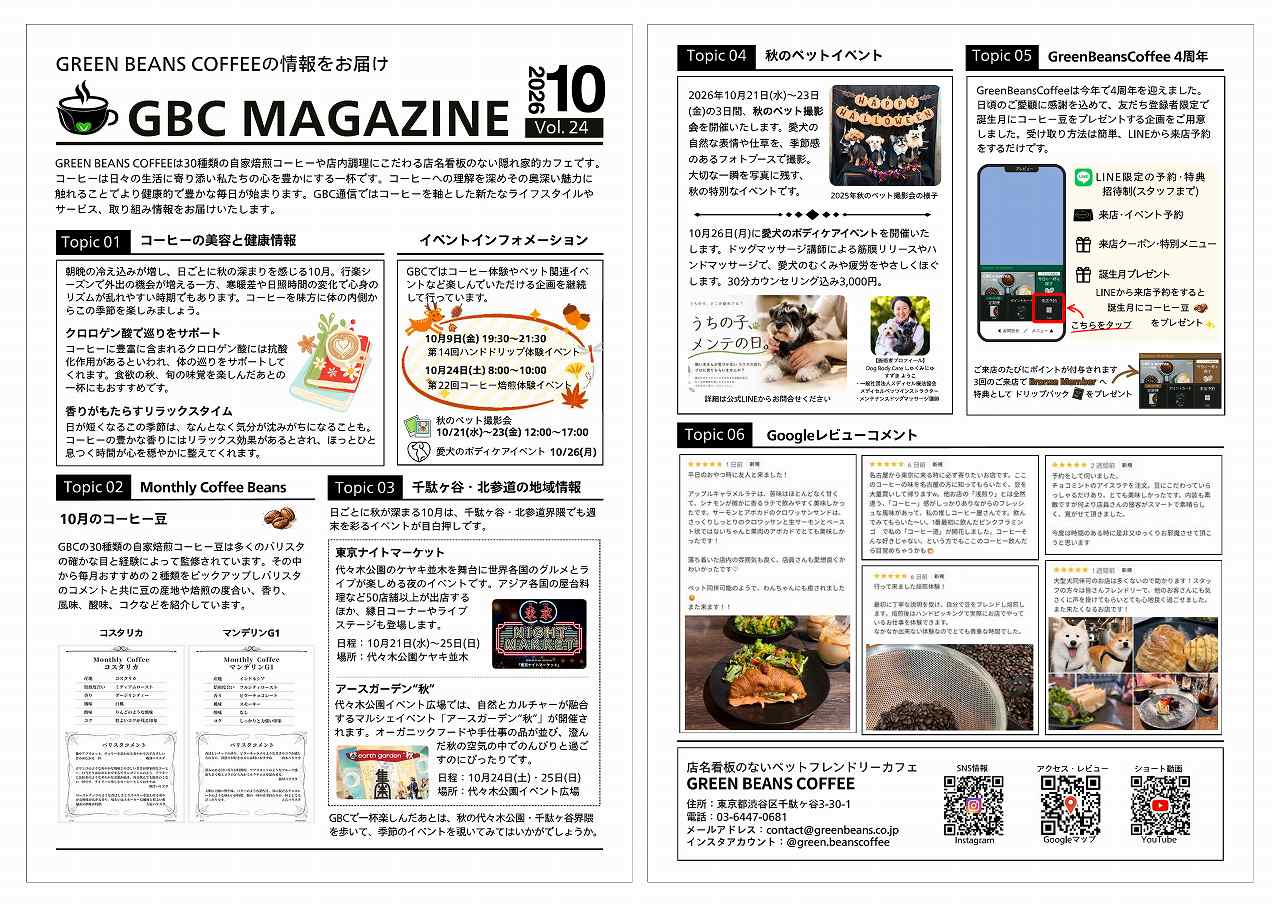
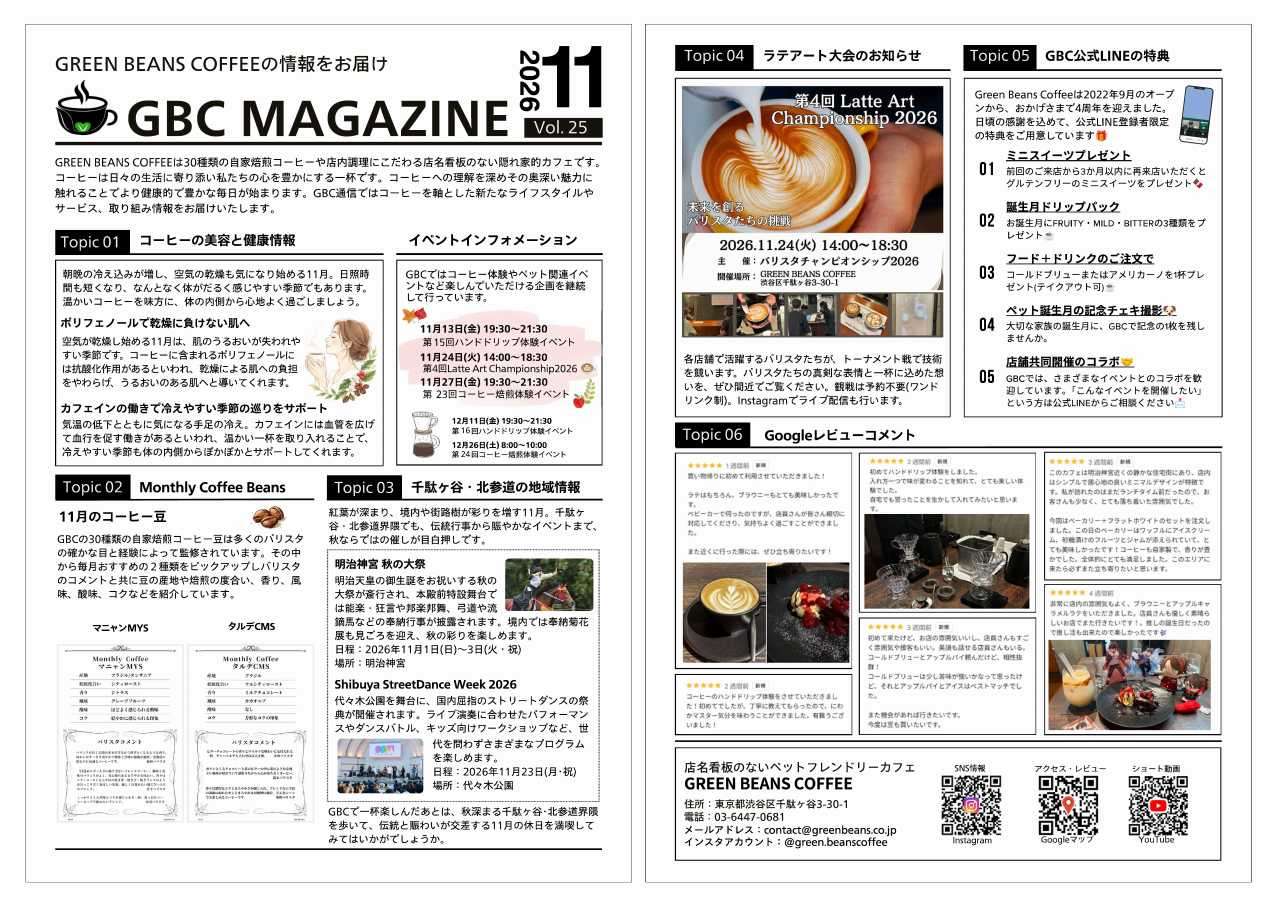
feat: update December GBC Magazine and standardize magazine rotation workflow

diff --git a/public/index.html b/public/index.html
@@ -1128,8 +1128,8 @@
       <!-- Latest Issue -->
       <div class="w-full max-w-2xl mx-auto mb-16 px-4 sm:px-0" data-aos="zoom-in">
         <h3 class="text-2xl font-bold mb-4 text-center text-primary">最新号</h3>
-        <div class="relative group cursor-pointer" onclick="openModal('/assets/images/magazine/latest.jpg')">
-          <img src="/assets/images/magazine/latest.jpg" alt="北参道・千駄ヶ谷のGreen Beans Coffeeが制作する月刊誌「GBCマガジン」最新号。店内掲示のフリーペーパーとして無料配布し、地域情報やコーヒー文化を発信しています。" class="w-full rounded-lg shadow-lg group-hover:shadow-xl transition-all duration-300 group-hover:scale-105" loading="lazy" decoding="async">
+        <div class="relative group cursor-pointer" onclick="openModal(this)">
+          <img src="/assets/images/magazine/latest.jpg?v=f7b3a398" alt="北参道・千駄ヶ谷のGreen Beans Coffeeが制作する月刊誌「GBCマガジン」2026年12月号（Vol.26）。店内掲示のフリーペーパーとして無料配布し、地域情報やコーヒー文化を発信しています。" class="w-full rounded-lg shadow-lg group-hover:shadow-xl transition-all duration-300 group-hover:scale-105" loading="lazy" decoding="async">
           <!-- Hover Overlay with Zoom Icon -->
           <div class="absolute inset-0 bg-black/0 group-hover:bg-black/20 transition-all duration-300 rounded-lg flex items-center justify-center">
             <svg xmlns="http://www.w3.org/2000/svg" width="64" height="64" viewBox="0 0 24 24" fill="none" stroke="white" stroke-width="2" stroke-linecap="round" stroke-linejoin="round" class="opacity-0 group-hover:opacity-100 transition-opacity duration-300">
@@ -1147,8 +1147,8 @@
       <div class="max-w-4xl mx-auto">
         <h3 class="text-xl font-bold mb-6 text-center text-primary">バックナンバー</h3>
         <div class="grid grid-cols-2 sm:grid-cols-2 md:grid-cols-3 gap-4">
-          <div class="relative group cursor-pointer" onclick="openModal('/assets/images/magazine/back-01.jpg')">
-            <img src="/assets/images/magazine/back-01.jpg" alt="北参道・千駄ヶ谷のGreen Beans Coffeeが発行する月刊誌「GBCマガジン」2026年8月号。紫外線対策や血液サラサラ効果などコーヒーの美容・健康情報、神宮外苑花火大会・原宿表参道元氣祭スーパーよさこいの地域情報、GBCコーヒー新作3種の紹介を掲載しています。" class="w-full rounded shadow group-hover:shadow-lg transition-all duration-300 group-hover:scale-105" loading="lazy" decoding="async">
+          <div class="relative group cursor-pointer" onclick="openModal(this)">
+            <img src="/assets/images/magazine/back-01.jpg?v=5debcccb" alt="北参道・千駄ヶ谷のGreen Beans Coffeeが発行する月刊誌「GBCマガジン」2026年11月号（Vol.25）。明治神宮秋の大祭やShibuya StreetDance Week、第4回Latte Art Championship 2026の告知、GBC公式LINEの特典情報を掲載しています。" class="w-full rounded shadow group-hover:shadow-lg transition-all duration-300 group-hover:scale-105" loading="lazy" decoding="async">
             <div class="absolute inset-0 bg-black/0 group-hover:bg-black/20 transition-all duration-300 rounded flex items-center justify-center">
               <svg xmlns="http://www.w3.org/2000/svg" width="48" height="48" viewBox="0 0 24 24" fill="none" stroke="white" stroke-width="2" stroke-linecap="round" stroke-linejoin="round" class="opacity-0 group-hover:opacity-100 transition-opacity duration-300">
                 <circle cx="11" cy="11" r="8"></circle>
@@ -1158,8 +1158,8 @@
               </svg>
             </div>
           </div>
-          <div class="relative group cursor-pointer" onclick="openModal('/assets/images/magazine/back-02.jpg')">
-            <img src="/assets/images/magazine/back-02.jpg" alt="北参道・千駄ヶ谷のGreen Beans Coffeeが発行する月刊誌「GBCマガジン」2026年7月号。夏の美容・健康情報やラテアート大会のご報告、GBC Articlesの紹介などを掲載しています。" class="w-full rounded shadow group-hover:shadow-lg transition-all duration-300 group-hover:scale-105" loading="lazy" decoding="async">
+          <div class="relative group cursor-pointer" onclick="openModal(this)">
+            <img src="/assets/images/magazine/back-02.jpg?v=f4c33983" alt="北参道・千駄ヶ谷のGreen Beans Coffeeが発行する月刊誌「GBCマガジン」2026年10月号（Vol.24）。秋のペット撮影会やボディケアイベントのご報告、Green Beans Coffee4周年記念企画を掲載しています。" class="w-full rounded shadow group-hover:shadow-lg transition-all duration-300 group-hover:scale-105" loading="lazy" decoding="async">
             <div class="absolute inset-0 bg-black/0 group-hover:bg-black/20 transition-all duration-300 rounded flex items-center justify-center">
               <svg xmlns="http://www.w3.org/2000/svg" width="48" height="48" viewBox="0 0 24 24" fill="none" stroke="white" stroke-width="2" stroke-linecap="round" stroke-linejoin="round" class="opacity-0 group-hover:opacity-100 transition-opacity duration-300">
                 <circle cx="11" cy="11" r="8"></circle>
@@ -1169,8 +1169,8 @@
               </svg>
             </div>
           </div>
-          <div class="relative group cursor-pointer" onclick="openModal('/assets/images/magazine/back-03.jpg')">
-            <img src="/assets/images/magazine/back-03.jpg" alt="北参道・千駄ヶ谷のGreen Beans Coffeeが発行する月刊誌「GBCマガジン」2026年6月号。梅雨時の体調管理に役立つコーヒー情報や鳩森八幡神社の夏越の大祓、ペット撮影会のご報告を掲載しています。" class="w-full rounded shadow group-hover:shadow-lg transition-all duration-300 group-hover:scale-105" loading="lazy" decoding="async">
+          <div class="relative group cursor-pointer" onclick="openModal(this)">
+            <img src="/assets/images/magazine/back-03.jpg?v=8ac66566" alt="北参道・千駄ヶ谷のGreen Beans Coffeeが発行する月刊誌「GBCマガジン」2026年9月号（Vol.23）。鳩森八幡神社の例大祭や秋分の日の話題、夏のペット撮影会のご報告、新作「GBC Frozen Brew」の紹介を掲載しています。" class="w-full rounded shadow group-hover:shadow-lg transition-all duration-300 group-hover:scale-105" loading="lazy" decoding="async">
             <div class="absolute inset-0 bg-black/0 group-hover:bg-black/20 transition-all duration-300 rounded flex items-center justify-center">
               <svg xmlns="http://www.w3.org/2000/svg" width="48" height="48" viewBox="0 0 24 24" fill="none" stroke="white" stroke-width="2" stroke-linecap="round" stroke-linejoin="round" class="opacity-0 group-hover:opacity-100 transition-opacity duration-300">
                 <circle cx="11" cy="11" r="8"></circle>
@@ -1180,8 +1180,8 @@
               </svg>
             </div>
           </div>
-          <div class="relative group cursor-pointer" onclick="openModal('/assets/images/magazine/back-04.jpg')">
-            <img src="/assets/images/magazine/back-04.jpg" alt="北参道・千駄ヶ谷のGreen Beans Coffeeが発行する月刊誌「GBCマガジン」2026年5月号。紫外線対策とコーヒーの関係やダガヤサンドウ新緑の散歩スポット、ラテアートチャンピオンシップ2026の告知を掲載しています。" class="w-full rounded shadow group-hover:shadow-lg transition-all duration-300 group-hover:scale-105" loading="lazy" decoding="async">
+          <div class="relative group cursor-pointer" onclick="openModal(this)">
+            <img src="/assets/images/magazine/back-04.jpg?v=54c5ddf1" alt="北参道・千駄ヶ谷のGreen Beans Coffeeが発行する月刊誌「GBCマガジン」2026年8月号（Vol.22）。神宮外苑花火大会や原宿表参道元氣祭スーパーよさこいの地域情報、Kitasando Reserveのご紹介を掲載しています。" class="w-full rounded shadow group-hover:shadow-lg transition-all duration-300 group-hover:scale-105" loading="lazy" decoding="async">
             <div class="absolute inset-0 bg-black/0 group-hover:bg-black/20 transition-all duration-300 rounded flex items-center justify-center">
               <svg xmlns="http://www.w3.org/2000/svg" width="48" height="48" viewBox="0 0 24 24" fill="none" stroke="white" stroke-width="2" stroke-linecap="round" stroke-linejoin="round" class="opacity-0 group-hover:opacity-100 transition-opacity duration-300">
                 <circle cx="11" cy="11" r="8"></circle>
@@ -1191,8 +1191,8 @@
               </svg>
             </div>
           </div>
-          <div class="relative group cursor-pointer" onclick="openModal('/assets/images/magazine/back-05.jpg')">
-            <img src="/assets/images/magazine/back-05.jpg" alt="北参道・千駄ヶ谷のGreen Beans Coffeeが発行する月刊誌「GBCマガジン」2026年4月号。集中力とコーヒーの関係や代々木公園わんわんカーニバル2026の情報、コラボカフェのご報告を掲載しています。" class="w-full rounded shadow group-hover:shadow-lg transition-all duration-300 group-hover:scale-105" loading="lazy" decoding="async">
+          <div class="relative group cursor-pointer" onclick="openModal(this)">
+            <img src="/assets/images/magazine/back-05.jpg?v=c9c7ce58" alt="北参道・千駄ヶ谷のGreen Beans Coffeeが発行する月刊誌「GBCマガジン」2026年7月号（Vol.21）。せんだがや盆踊り大会や明治神宮「森のビアガーデン」の地域情報、第3回ラテアートチャンピオンシップのご報告、GBC Articlesの紹介を掲載しています。" class="w-full rounded shadow group-hover:shadow-lg transition-all duration-300 group-hover:scale-105" loading="lazy" decoding="async">
             <div class="absolute inset-0 bg-black/0 group-hover:bg-black/20 transition-all duration-300 rounded flex items-center justify-center">
               <svg xmlns="http://www.w3.org/2000/svg" width="48" height="48" viewBox="0 0 24 24" fill="none" stroke="white" stroke-width="2" stroke-linecap="round" stroke-linejoin="round" class="opacity-0 group-hover:opacity-100 transition-opacity duration-300">
                 <circle cx="11" cy="11" r="8"></circle>
@@ -1202,8 +1202,8 @@
               </svg>
             </div>
           </div>
-          <div class="relative group cursor-pointer" onclick="openModal('/assets/images/magazine/back-06.jpg')">
-            <img src="/assets/images/magazine/back-06.jpg" alt="北参道・千駄ヶ谷のGreen Beans Coffeeが発行する月刊誌「GBCマガジン」2026年3月号。春先の体調管理に役立つコーヒー情報や新宿御苑の桜だより、冬のペット撮影会のご報告を掲載しています。" class="w-full rounded shadow group-hover:shadow-lg transition-all duration-300 group-hover:scale-105" loading="lazy" decoding="async">
+          <div class="relative group cursor-pointer" onclick="openModal(this)">
+            <img src="/assets/images/magazine/back-06.jpg?v=214de2b5" alt="北参道・千駄ヶ谷のGreen Beans Coffeeが発行する月刊誌「GBCマガジン」2026年6月号（Vol.20）。鳩森八幡神社の夏越の大祓や茅の輪くぐりの地域情報、春のペット撮影会のご報告、ペットアンバサダーサイトの紹介を掲載しています。" class="w-full rounded shadow group-hover:shadow-lg transition-all duration-300 group-hover:scale-105" loading="lazy" decoding="async">
             <div class="absolute inset-0 bg-black/0 group-hover:bg-black/20 transition-all duration-300 rounded flex items-center justify-center">
               <svg xmlns="http://www.w3.org/2000/svg" width="48" height="48" viewBox="0 0 24 24" fill="none" stroke="white" stroke-width="2" stroke-linecap="round" stroke-linejoin="round" class="opacity-0 group-hover:opacity-100 transition-opacity duration-300">
                 <circle cx="11" cy="11" r="8"></circle>
@@ -1221,8 +1221,16 @@
   </section>
 
   <!-- Modal for Image Zoom -->
-  <div id="imageModal" class="hidden fixed inset-0 bg-black/80 z-50 flex items-center justify-center" onclick="closeModal()">
-    <img id="modalImage" src="" alt="拡大表示画像" class="max-w-full max-h-full p-4">
+  <div id="imageModal" class="hidden fixed inset-0 bg-black/80 z-50 flex items-center justify-center p-4" onclick="closeModal()">
+    <div class="relative" onclick="event.stopPropagation()">
+      <button onclick="closeModal()" class="absolute -top-12 right-0 text-white hover:text-accent transition bg-black/50 rounded-full p-2" aria-label="モーダルを閉じる">
+        <svg xmlns="http://www.w3.org/2000/svg" width="28" height="28" viewBox="0 0 24 24" fill="none" stroke="currentColor" stroke-width="2" stroke-linecap="round" stroke-linejoin="round">
+          <line x1="18" y1="6" x2="6" y2="18"></line>
+          <line x1="6" y1="6" x2="18" y2="18"></line>
+        </svg>
+      </button>
+      <img id="modalImage" src="" alt="" class="max-h-[85vh] max-w-[90vw] w-auto h-auto rounded-lg">
+    </div>
   </div>
 
   <!-- Modal for Video Player -->
@@ -2716,8 +2724,10 @@
     }, 7000); // Switch every 7 seconds
 
     // Modal functions for magazine images
-    function openModal(src) {
-      document.getElementById('modalImage').src = src;
+    function openModal(el) {
+      const img = el.querySelector('img');
+      document.getElementById('modalImage').src = img.src;
+      document.getElementById('modalImage').alt = img.alt;
       document.getElementById('imageModal').classList.remove('hidden');
     }
 
@@ -2818,6 +2828,12 @@
       const monthlyModal = document.getElementById('monthlyModal');
       if (!monthlyModal.classList.contains('hidden')) {
         if (e.key === 'Escape') closeMonthlyModal();
+      }
+
+      // Keyboard navigation for image modal (magazine)
+      const imageModal = document.getElementById('imageModal');
+      if (!imageModal.classList.contains('hidden')) {
+        if (e.key === 'Escape') closeModal();
       }
     });
 

diff --git a/public/en/index.html b/public/en/index.html
@@ -1091,7 +1091,7 @@
       <div class="w-full max-w-2xl mx-auto mb-16 px-4 sm:px-0" data-aos="zoom-in">
         <h3 class="text-2xl font-bold mb-4 text-center text-primary">Latest Issue</h3>
         <div class="relative group cursor-pointer" onclick="openModal(this)">
-          <img src="/assets/images/magazine/latest.jpg" alt="Latest issue of GBC Magazine, the monthly free newsletter by Green Beans Coffee in Kitasando and Sendagaya, Tokyo, featuring coffee tips, local Dagayasando news, and shop events." class="w-full rounded-lg shadow-lg group-hover:shadow-xl transition-all duration-300 group-hover:scale-105" loading="lazy" decoding="async">
+          <img src="/assets/images/magazine/latest.jpg?v=f7b3a398" alt="Latest issue of GBC Magazine (December 2026, Vol. 26), the monthly free newsletter by Green Beans Coffee in Kitasando and Sendagaya, Tokyo, featuring coffee tips, local Dagayasando news, and shop events." class="w-full rounded-lg shadow-lg group-hover:shadow-xl transition-all duration-300 group-hover:scale-105" loading="lazy" decoding="async">
           <!-- Hover Overlay with Zoom Icon -->
           <div class="absolute inset-0 bg-black/0 group-hover:bg-black/20 transition-all duration-300 rounded-lg flex items-center justify-center">
             <svg xmlns="http://www.w3.org/2000/svg" width="64" height="64" viewBox="0 0 24 24" fill="none" stroke="white" stroke-width="2" stroke-linecap="round" stroke-linejoin="round" class="opacity-0 group-hover:opacity-100 transition-opacity duration-300">
@@ -1110,7 +1110,7 @@
         <h3 class="text-xl font-bold mb-6 text-center text-primary">Back Issues</h3>
         <div class="grid grid-cols-2 sm:grid-cols-2 md:grid-cols-3 gap-4">
           <div class="relative group cursor-pointer" onclick="openModal(this)">
-            <img src="/assets/images/magazine/back-01.jpg" alt="GBC Magazine October 2026 issue, the monthly free newsletter published by Green Beans Coffee in Kitasando and Sendagaya, Tokyo." class="w-full rounded shadow group-hover:shadow-lg transition-all duration-300 group-hover:scale-105" loading="lazy" decoding="async">
+            <img src="/assets/images/magazine/back-01.jpg?v=5debcccb" alt="GBC Magazine November 2026 issue, Vol. 25, the monthly free newsletter published by Green Beans Coffee in Kitasando and Sendagaya, Tokyo." class="w-full rounded shadow group-hover:shadow-lg transition-all duration-300 group-hover:scale-105" loading="lazy" decoding="async">
             <div class="absolute inset-0 bg-black/0 group-hover:bg-black/20 transition-all duration-300 rounded flex items-center justify-center">
               <svg xmlns="http://www.w3.org/2000/svg" width="48" height="48" viewBox="0 0 24 24" fill="none" stroke="white" stroke-width="2" stroke-linecap="round" stroke-linejoin="round" class="opacity-0 group-hover:opacity-100 transition-opacity duration-300">
                 <circle cx="11" cy="11" r="8"></circle>
@@ -1121,7 +1121,7 @@
             </div>
           </div>
           <div class="relative group cursor-pointer" onclick="openModal(this)">
-            <img src="/assets/images/magazine/back-02.jpg" alt="GBC Magazine September 2026 issue, the monthly free newsletter published by Green Beans Coffee in Kitasando and Sendagaya, Tokyo." class="w-full rounded shadow group-hover:shadow-lg transition-all duration-300 group-hover:scale-105" loading="lazy" decoding="async">
+            <img src="/assets/images/magazine/back-02.jpg?v=f4c33983" alt="GBC Magazine October 2026 issue, Vol. 24, the monthly free newsletter published by Green Beans Coffee in Kitasando and Sendagaya, Tokyo." class="w-full rounded shadow group-hover:shadow-lg transition-all duration-300 group-hover:scale-105" loading="lazy" decoding="async">
             <div class="absolute inset-0 bg-black/0 group-hover:bg-black/20 transition-all duration-300 rounded flex items-center justify-center">
               <svg xmlns="http://www.w3.org/2000/svg" width="48" height="48" viewBox="0 0 24 24" fill="none" stroke="white" stroke-width="2" stroke-linecap="round" stroke-linejoin="round" class="opacity-0 group-hover:opacity-100 transition-opacity duration-300">
                 <circle cx="11" cy="11" r="8"></circle>
@@ -1132,7 +1132,7 @@
             </div>
           </div>
           <div class="relative group cursor-pointer" onclick="openModal(this)">
-            <img src="/assets/images/magazine/back-03.jpg" alt="GBC Magazine August 2026 issue, the monthly free newsletter published by Green Beans Coffee in Kitasando and Sendagaya, Tokyo." class="w-full rounded shadow group-hover:shadow-lg transition-all duration-300 group-hover:scale-105" loading="lazy" decoding="async">
+            <img src="/assets/images/magazine/back-03.jpg?v=8ac66566" alt="GBC Magazine September 2026 issue, Vol. 23, the monthly free newsletter published by Green Beans Coffee in Kitasando and Sendagaya, Tokyo." class="w-full rounded shadow group-hover:shadow-lg transition-all duration-300 group-hover:scale-105" loading="lazy" decoding="async">
             <div class="absolute inset-0 bg-black/0 group-hover:bg-black/20 transition-all duration-300 rounded flex items-center justify-center">
               <svg xmlns="http://www.w3.org/2000/svg" width="48" height="48" viewBox="0 0 24 24" fill="none" stroke="white" stroke-width="2" stroke-linecap="round" stroke-linejoin="round" class="opacity-0 group-hover:opacity-100 transition-opacity duration-300">
                 <circle cx="11" cy="11" r="8"></circle>
@@ -1143,7 +1143,7 @@
             </div>
           </div>
           <div class="relative group cursor-pointer" onclick="openModal(this)">
-            <img src="/assets/images/magazine/back-04.jpg" alt="GBC Magazine July 2026 issue, the monthly free newsletter published by Green Beans Coffee in Kitasando and Sendagaya, Tokyo." class="w-full rounded shadow group-hover:shadow-lg transition-all duration-300 group-hover:scale-105" loading="lazy" decoding="async">
+            <img src="/assets/images/magazine/back-04.jpg?v=54c5ddf1" alt="GBC Magazine August 2026 issue, Vol. 22, the monthly free newsletter published by Green Beans Coffee in Kitasando and Sendagaya, Tokyo." class="w-full rounded shadow group-hover:shadow-lg transition-all duration-300 group-hover:scale-105" loading="lazy" decoding="async">
             <div class="absolute inset-0 bg-black/0 group-hover:bg-black/20 transition-all duration-300 rounded flex items-center justify-center">
               <svg xmlns="http://www.w3.org/2000/svg" width="48" height="48" viewBox="0 0 24 24" fill="none" stroke="white" stroke-width="2" stroke-linecap="round" stroke-linejoin="round" class="opacity-0 group-hover:opacity-100 transition-opacity duration-300">
                 <circle cx="11" cy="11" r="8"></circle>
@@ -1154,7 +1154,7 @@
             </div>
           </div>
           <div class="relative group cursor-pointer" onclick="openModal(this)">
-            <img src="/assets/images/magazine/back-05.jpg" alt="GBC Magazine June 2026 issue, the monthly free newsletter published by Green Beans Coffee in Kitasando and Sendagaya, Tokyo." class="w-full rounded shadow group-hover:shadow-lg transition-all duration-300 group-hover:scale-105" loading="lazy" decoding="async">
+            <img src="/assets/images/magazine/back-05.jpg?v=c9c7ce58" alt="GBC Magazine July 2026 issue, Vol. 21, the monthly free newsletter published by Green Beans Coffee in Kitasando and Sendagaya, Tokyo." class="w-full rounded shadow group-hover:shadow-lg transition-all duration-300 group-hover:scale-105" loading="lazy" decoding="async">
             <div class="absolute inset-0 bg-black/0 group-hover:bg-black/20 transition-all duration-300 rounded flex items-center justify-center">
               <svg xmlns="http://www.w3.org/2000/svg" width="48" height="48" viewBox="0 0 24 24" fill="none" stroke="white" stroke-width="2" stroke-linecap="round" stroke-linejoin="round" class="opacity-0 group-hover:opacity-100 transition-opacity duration-300">
                 <circle cx="11" cy="11" r="8"></circle>
@@ -1165,7 +1165,7 @@
             </div>
           </div>
           <div class="relative group cursor-pointer" onclick="openModal(this)">
-            <img src="/assets/images/magazine/back-06.jpg" alt="GBC Magazine May 2026 issue, the monthly free newsletter published by Green Beans Coffee in Kitasando and Sendagaya, Tokyo." class="w-full rounded shadow group-hover:shadow-lg transition-all duration-300 group-hover:scale-105" loading="lazy" decoding="async">
+            <img src="/assets/images/magazine/back-06.jpg?v=214de2b5" alt="GBC Magazine June 2026 issue, Vol. 20, the monthly free newsletter published by Green Beans Coffee in Kitasando and Sendagaya, Tokyo." class="w-full rounded shadow group-hover:shadow-lg transition-all duration-300 group-hover:scale-105" loading="lazy" decoding="async">
             <div class="absolute inset-0 bg-black/0 group-hover:bg-black/20 transition-all duration-300 rounded flex items-center justify-center">
               <svg xmlns="http://www.w3.org/2000/svg" width="48" height="48" viewBox="0 0 24 24" fill="none" stroke="white" stroke-width="2" stroke-linecap="round" stroke-linejoin="round" class="opacity-0 group-hover:opacity-100 transition-opacity duration-300">
                 <circle cx="11" cy="11" r="8"></circle>

diff --git a/scripts/update-images.js b/scripts/update-images.js
@@ -201,16 +201,29 @@ async function main() {
   }
 
   // マガジン処理
+  // 「同じ号を誤って2回処理」「古い号で上書き」を防ぐため、このスクリプト自体には
+  // 年月・Vol.番号を判定する仕組みを持たせない（画像からの読み取りはAI/OCRが必要なため）。
+  // 判定は必ず Claude Code がビジョン機能で事前に行い、下記のいずれかの方法で結果を伝える：
+  //   - 通常の新号（現在のlatest.jpgより新しい）  → 環境変数なしで実行（ローテーションする）
+  //   - 同月号の修正版（latest.jpgと同じ年月・Vol.） → SKIP_MAGAZINE_ROTATION=1 を付けて実行
+  //                                                   （ローテーションせず latest.jpg のみ上書き）
+  //   - 現在号より古い／年月やVol.が不明           → このスクリプトを実行しない（Claude Code側で停止）
+  // 処理後も inbox の元画像は削除しない。HTML更新・検証がすべて完了したことを確認してから、
+  // Claude Code が個別ファイル名で削除する運用とする（途中失敗時に元画像を保持するため）。
   if (existsSync(inboxFiles.magazine)) {
     log.header('マガジン');
-    rotateMagazine();
+    if (process.env.SKIP_MAGAZINE_ROTATION === '1') {
+      log.info('SKIP_MAGAZINE_ROTATION=1 のため、バックナンバーのローテーションをスキップします（同月号の修正版として処理）。');
+    } else {
+      rotateMagazine();
+    }
     const destPath = resolve(IMAGES, 'magazine/latest.jpg');
     if (tinify) {
       await compressAndCopy(inboxFiles.magazine, destPath, tinify);
     } else {
       await compressWithJimp(inboxFiles.magazine, destPath);
     }
-    unlinkSync(inboxFiles.magazine);
+    log.info('inbox/magazine-latest.jpg は削除していません。HTML更新・検証完了後に削除してください。');
   } else {
     log.skip('magazine-latest.jpg: スキップ（inbox になし）');
   }

diff --git a/CLAUDE.md b/CLAUDE.md
@@ -325,11 +325,69 @@ assets/images/magazine/back-02.jpg   … バックナンバー2号前
 assets/images/magazine/back-06.jpg   … バックナンバー6号前（最古、6号分まで保持）
 ```
 
-## 更新手順（毎月）
-1. PDFを画像に変換し、表紙・裏表紙を横並びの見開き1枚画像に合成
-2. 画像を最適化
-3. ファイルをローテーション：`back-06.jpg`を削除 → `back-05.jpg`〜`back-01.jpg`をそれぞれ1つ後ろ（`back-06.jpg`〜`back-02.jpg`）にリネーム → 旧`latest.jpg`を新`back-01.jpg`にリネーム → 新しい見開き画像を`latest.jpg`として保存
-4. index.html（メインサイト）の「最新号」「バックナンバー」セクションのimg src・alt文を更新
+## モーダル（拡大表示）の仕様（2026-11-26改修）
+- 日本語版：マガジン専用の`imageModal`/`openModal(el)`/`closeModal()`（`public/index.html`）。以前は`openModal(src)`で×ボタン・Escape・alt動的反映のいずれも未実装だったが、Monthly Coffee・イベントチラシと同じ仕様に統一した（×ボタン・背景クリック・Escapeキーで閉じる、`el.querySelector('img')`でalt動的反映）。このモーダルは日本語版ではマガジン専用で他セクションと共有していないため、改修による他セクションへの影響はない
+- 英語版：`imageModal`/`openModal(el)`/`closeModal()`（`public/en/index.html`、マガジン・Monthly Coffee・イベントチラシで共通利用、STEP6で統一済み）
+- 画像サイズ上限：`max-h-[85vh] max-w-[90vw] w-auto h-auto`（日英共通）。マガジン画像は横長（比率約1.41:1）のため、縦長画像用の`max-h-[85vh] w-auto`単独（JP版monthlyModalの設定）ではなく、横長にも安全な幅上限を必ず併用すること
+
+## 標準更新フロー（2026-11-26確定・自動化版）
+
+**ユーザーの操作は「`inbox/magazine-latest.jpg`を格納し、Claude Codeに更新を指示するだけ」。**
+
+### 0. 作業開始前の確認
+- `git status`で、更新対象ファイル（`public/index.html`・`public/en/index.html`・`public/assets/images/magazine/`配下7ファイル・`scripts/update-images.js`・`CLAUDE.md`）に、今回の作業と無関係な既存の未コミット変更がないか確認する
+- 既存の変更がある場合は`git stash push -m "マガジン更新前の既存変更を退避" -- <該当ファイルを個別指定>`で退避してから作業を開始する
+
+### 1. inboxの確認
+- `inbox/magazine-latest.jpg`の存在を確認する。なければユーザーに確認する
+
+### 2. 画像認識（Claude Codeのビジョン機能のみ使用。圧縮・配置の前に必ず実施）
+- 新しいinbox画像から「対象年月」「Vol.番号」を読み取る
+- **現在の`public/assets/images/magazine/latest.jpg`も同様にビジョンで読み取り、年月・Vol.番号を確認する**（HTML側のalt属性は過去に更新漏れが生じた実例があるため、alt属性を鵜呑みにせず必ず画像そのものを正とする。2026-11-26時点で日本語版のalt属性が実際の画像より2ヶ月古いまま放置されていた実例がある）
+- 新旧を比較し、以下のいずれに該当するか判定する：
+  - **新号**（新しい画像の年月・Volが現在のlatest.jpgより後）→ 通常のローテーション処理を行う
+  - **同月号の修正版**（年月・Volが現在のlatest.jpgと同一）→ ローテーションせず`latest.jpg`のみ差し替える
+  - **現在号より古い画像**、または**年月・Volが不明／判読できない**→ **処理を中断し、推測せずユーザーに確認する**
+
+### 3. 既存7冊の年月・並び順の確認
+- `back-01.jpg`〜`back-06.jpg`も必要に応じてビジョンで確認し、HTML側のalt属性と実際の画像内容に不一致がないか確認する。不一致があれば今回の更新と合わせて正しい内容に修正する
+
+### 4. 画像の退避は不要（Gitが保護する）
+- `public/assets/images/magazine/`配下の7ファイルはすべてGit追跡済みのため、個別の手動バックアップは不要。「0. 作業開始前の確認」でクリーンな状態からスタートしていれば、失敗時は`git restore`で直前の公開状態に戻せる
+
+### 5. 画像の圧縮・配置
+- STEP2の判定結果に応じて実行コマンドを選ぶ：
+  - 新号の場合：`npm run update-images`（バックナンバーのローテーション＋`latest.jpg`差し替えを実行。`back-06.jpg`を削除し`back-05→06`…`latest→back-01`とシフトしたうえで新しい号を`latest.jpg`に配置）
+  - 同月号の修正版の場合：`SKIP_MAGAZINE_ROTATION=1 npm run update-images`（ローテーションを行わず`latest.jpg`のみ差し替える。`scripts/update-images.js`側に実装済みの安全スイッチ）
+- どちらの場合も、処理後に`inbox/magazine-latest.jpg`は削除されない（HTML更新・検証完了後にClaude Codeが個別ファイル名で削除する）
+
+### 6. キャッシュ対策
+- 7ファイルすべて（`latest.jpg`・`back-01.jpg`〜`back-06.jpg`）のSHA-1ハッシュ先頭8桁を再算出し、`?v=`クエリとして日本語版・英語版それぞれの`<img src>`に付与する（Monthly Coffee・イベントチラシと同じ方式）
+
+### 7. HTML更新
+- 日本語版・英語版それぞれ7箇所ずつ、alt属性・年月・Vol.番号を更新する
+- 日本語版の`<h3>最新号</h3>`等の見出しテキストは変更しない（年月はalt属性にのみ反映。画像自体に大きく印刷されているため、見出しへの重複表示は行わない）
+- 全30種類リスト・既存の説明文・レイアウト・GA4計測・Monthly Coffee/イベントチラシのセクションには触れない
+
+### 8. 検証
+- `git diff --stat`で変更ファイルが想定範囲内か確認する
+- 7冊すべてで日本語版・英語版の年月・Vol.番号が一致しているか確認する
+- 通常表示とモーダル拡大表示が同じ画像（同じsrc）を指しているか確認する
+- 二重ローテーションが起きていないか（`back-01`〜`06`の内容が1号ずつ正しくずれているか、同じ号が重複していないか）を確認する
+- 実ブラウザでの目視確認は、claude-in-chrome等が利用できる場合のみ実施し、できない場合は「未確認」と明記する
+
+### 9. inbox元画像の削除
+- 上記8が完了したことを確認した**後にのみ**、`inbox/magazine-latest.jpg`を個別ファイル名で削除する
+
+### 10. 報告・承認
+- 検出した年月・Vol.番号・変更ファイル一覧・検証結果を報告する
+- ユーザーの明示的な承認があるまでコミット・プッシュ・本番公開は行わない
+
+## 安全対策まとめ（2026-11-26導入・検証済み）
+- **二重ローテーション防止**：`scripts/update-images.js`自体は年月・Volを判定できない（画像認識が必要なため）。判定は必ずClaude Codeがビジョン機能で事前に行い、その結果に応じて通常実行／`SKIP_MAGAZINE_ROTATION=1`付き実行／実行しない、を選択する。この安全スイッチと判定手順はgit worktreeによる隔離環境で検証済み（同一画像の再実行時に`back-01`〜`06`のハッシュが完全不変であることを確認）
+- **途中失敗時の復旧**：ローテーションは`rename`操作のため、処理途中で失敗すると`latest.jpg`が一時的に存在しない状態になりうる。この状態もgit worktreeで再現・検証済みで、7ファイルを個別に`git restore`すれば完全に復旧できることを確認済み（`git restore -- public/assets/images/magazine/latest.jpg public/assets/images/magazine/back-01.jpg ... back-06.jpg`のように個別ファイル名を列挙する。ワイルドカード・ディレクトリ指定は使わない）
+- **古い画像での上書き防止**・**年月不明時の停止**：いずれもClaude Code側の手順（STEP2）で担保する。スクリプト自体には実装しない（新規ライブラリ・外部AI APIを導入しない方針のため）
+- **🚨 絶対に守ること**：`npm run update-images`（および`SKIP_MAGAZINE_ROTATION=1`付きの実行）は、**必ず「2. 画像認識」で新旧の年月・Vol.番号をビジョンで確認し、新号／同月修正版／古い号／不明のいずれに該当するか判定した後にのみ**実行する。年月・Vol.番号の確認をせずに思いつきでスクリプトを直接再実行しないこと（`inbox/magazine-latest.jpg`が存在するだけで無条件にローテーションが走る仕様のため、確認を飛ばすと二重ローテーションや古い号での上書きが発生する）
 
 ---
 
